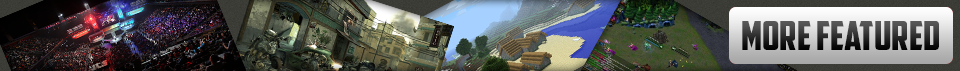
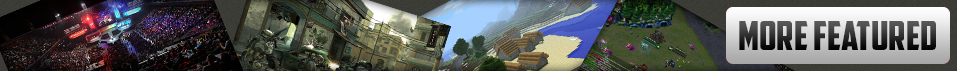
FIXED: width of our featured bar on frontpage.
ADDED: 5 images to the frontpage for users to change between them.
ADDED: If only 1 featured streamer is online, then featured_bar and above mentioneld will not be shown.
ADDED: functionality for partners to specify their streamer img which will be shown on the frontpage.

diff --git a/Gamers Live/ind.php b/Gamers Live/ind.php
@@ -23,21 +23,22 @@ $connect = mysql_connect($database_url, $database_user, $database_pw) or die(mys
 			
 // select the database we need
 $select_db = mysql_select_db("live", $connect) or die(mysql_error());
-				
-$result = mysql_query("SELECT * FROM channels WHERE featured='1' AND online='Online' ORDER BY feature_level DESC LIMIT 1");
+
+$selected = $_GET['id'];
+
+if($selected != null){
+    $result = mysql_query("SELECT * FROM channels WHERE channel_id='$selected' AND featured='1' AND online='Online'");
+}else{
+    $result = mysql_query("SELECT * FROM channels WHERE featured='1' AND online='Online' ORDER BY feature_level DESC LIMIT 1");
+}
+
+$featured_res = mysql_query("SELECT * FROM channels WHERE featured='1' AND online='Online' ORDER BY feature_level DESC LIMIT 5");
 $row = mysql_fetch_array($result);
 $count = mysql_num_rows($result);
 
 // offline rediction and updating
 $offline_url = "window.location = '?status=offline'";
-$status = $_GET["status"];
-
-if($count == 0 && $status != "offline"){
-    // then we have no streams to show and we will redict to the offline page
-    header( 'Location: ?status=offline' ) ;
-}
-
-if($count == 1){
+$status = $_GET['status'];
 
     $channel_id = $row['channel_id'];
     $server_rtmp = $row['server_rtmp'];
@@ -49,7 +50,8 @@ if($count == 1){
     $videoad = $row['ad_level'];
     $ads_channel = $row['adsense_video_channel'];
 
-    $featured_bar = "<a href='http://www.gamers-live.net/featured/'><img src='/images/frontpage/featured_bar.png''></a>";
+if($count > 1){
+    $featured_bar = "<a href='http://www.gamers-live.net/featured/'><img src='/images/frontpage/featured_bar.png' class='tabs_framed''></a>";
 }else{
     $featured_bar = "";
 }
@@ -77,11 +79,6 @@ if($status == "offline"){
     $add_view = mysql_query("UPDATE channels SET views='$new_views' WHERE channel_id='$channel_id'");
 }
 
-if($banned == "1"){
-// account is then banned and we redict to the banned page.
-header( 'Location: http://www.gamers-live.net/banned/' ) ;	
-}
-//test
 ?>
 <head>
 <meta http-equiv="Content-Type" content="text/html; charset=utf-8" />
@@ -208,6 +205,16 @@ include('slider.php');
          			<a style="display:block;width:960px;height:540px;margin:10px auto" id="stream">
                     </a>
                     </center>
+                    <br>
+                    <?php
+
+                    if($count > 1){
+                        while($featured_row = mysql_fetch_array($featured_res)){
+                            echo '<a href="?id='.$featured_row['channel_id'].'"><img src='.$featured_row['feature_img'].' class="tabs_framed" height="108" width="184" alt="Watch '.$featured_row['channel_id'].'"></a>';
+                        }
+                    }
+                    ?>
+
                     <script type="text/javascript">
                         flowplayer("stream", "http://www.gamers-live.net/files/flowplayer.commercial-3.2.11.swf",
                             {
@@ -245,7 +252,9 @@ include('slider.php');
 							}
 						);
 					</script>
-            <center><?=$featured_bar?></center>
+            <center>
+                <?=$featured_bar?>
+            </center>
         <br />
                 </div>
                 <div class="col col_1_3">

diff --git a/Gamers Live/account/partner/index.php b/Gamers Live/account/partner/index.php
@@ -53,6 +53,7 @@ $feature_level = $row_channel['feature_level'];
 $ad_level = $row_channel['ad_level'];
 $payment_email = $row_channel['payment_email'];
 $payment_gateway = $row_channel['payment_gateway'];
+$feature_img = $row_channel['feature_img'];
 
 // get payments for this account
 $result_pay = mysql_query("SELECT * FROM partner_payments WHERE partner_channel_id='$channel_id' ORDER BY id DESC") or die(mysql_error());
@@ -229,6 +230,11 @@ if($partner == "0"){
                                 </select>
                                 <input type="submit" name="wp-submit" id="wp-submit" class="button_link" value="Update" tabindex="100">
                             </form>
+                    <b>Featured Image URL (is only showed in a 16:9 aspect ratio):</b>
+                    <form action="update.php?msg=feature_img" method="post">
+                        <input name="value" id="value" class="input" value="<?=$feature_img?>" size="40" type="text" maxlength="30">
+                        <input type="submit" name="wp-submit" id="wp-submit" class="button_link" value="Update" tabindex="100">
+                    </form>
                             
                      <b>Payment Email:</b> 
                              <form action="update.php?msg=pay_email" method="post">

diff --git a/Gamers Live/account/partner/update.php b/Gamers Live/account/partner/update.php
@@ -57,6 +57,12 @@ $pgate_ads_update = mysql_query("UPDATE channels SET payment_gateway='$value' WH
 	
 }
 
+if($msg == "feature_img"){
+
+    $feature_img_update = mysql_query("UPDATE channels SET feature_img='$value' WHERE channel_id='$channel_id'") or die(mysql_error());
+
+}
+
 
 
 header( 'Location: http://www.gamers-live.net/account/partner/?msg='.$msg.'') ;	
